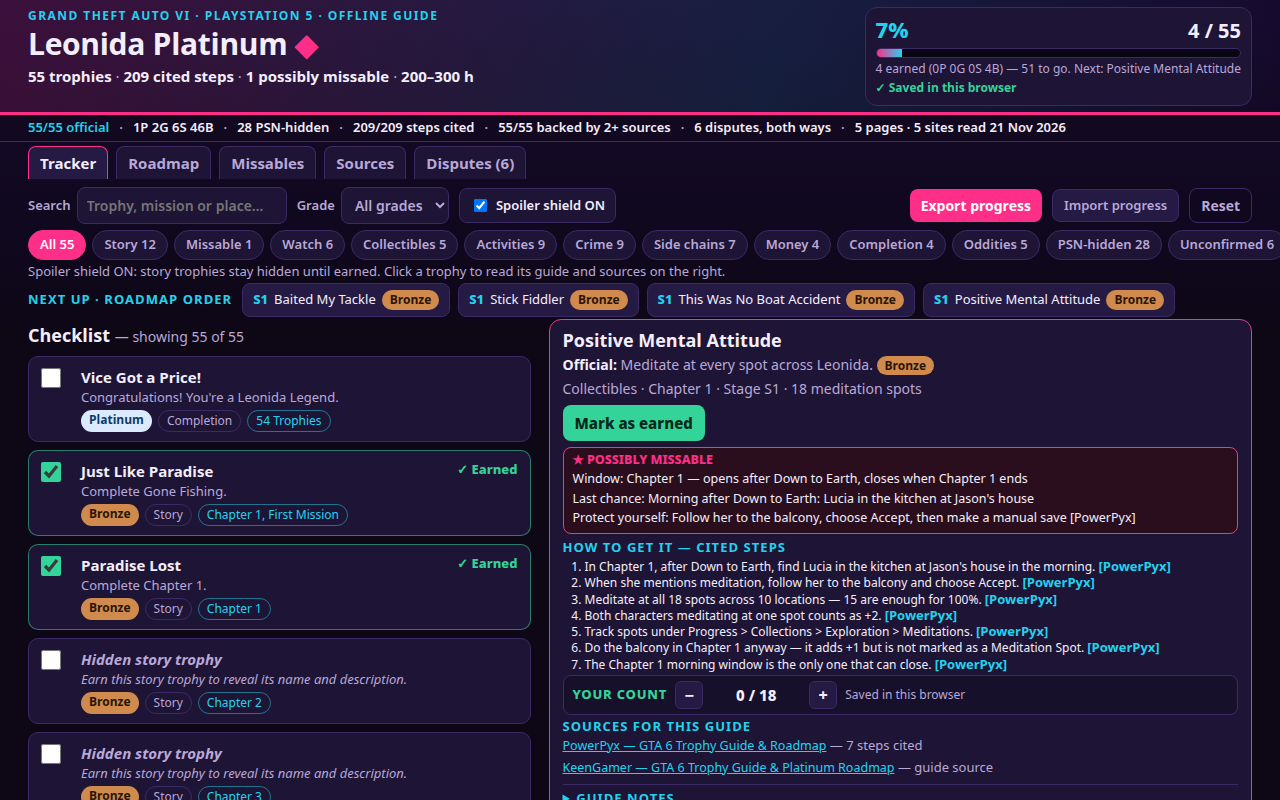
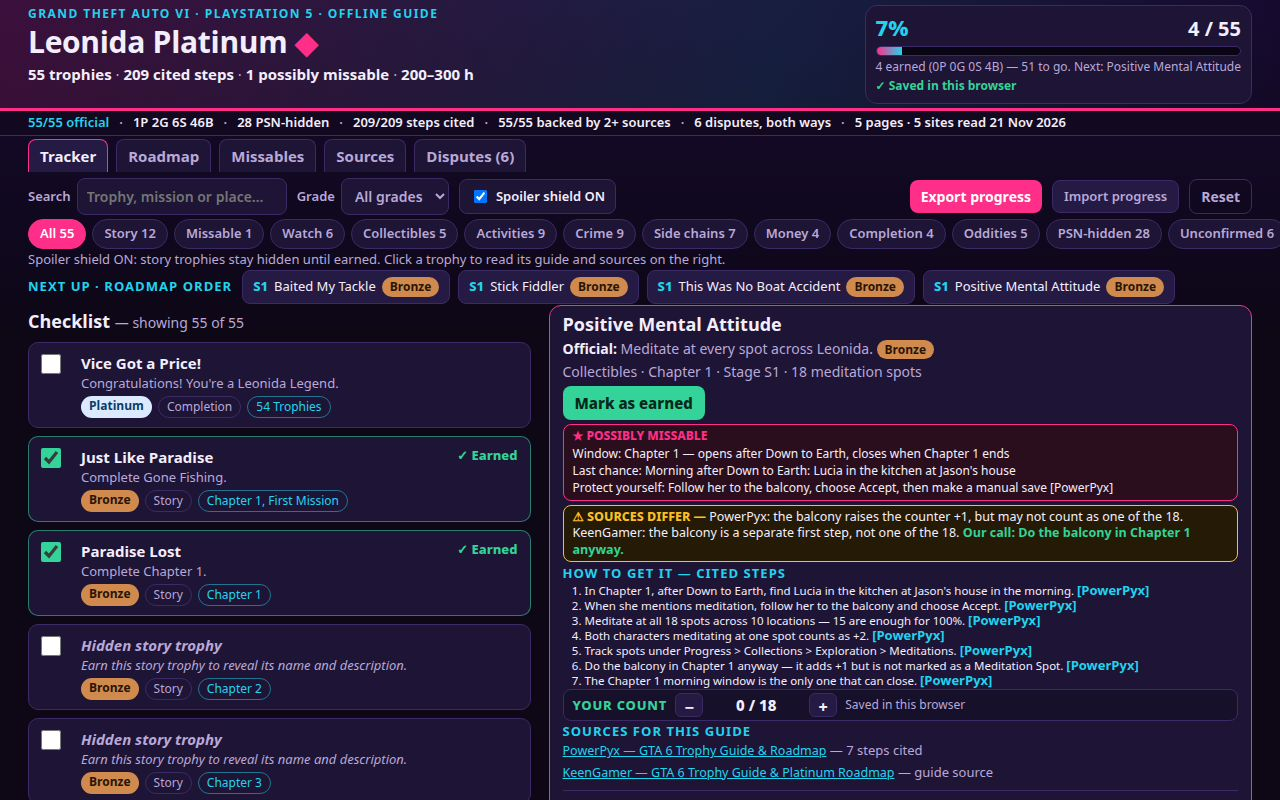
Leonida Platinum v5: in-panel missable-dispute note on Positive Mental Attitude (juri lokal: satu-satunya celah rank 10)

diff --git a/app/style.css b/app/style.css
@@ -37,7 +37,7 @@ button, select, input { font: inherit; color: inherit; }
   gap: 28px;
   justify-content: space-between;
   align-items: stretch;
-  padding: 7px 28px 6px;
+  padding: 5px 28px 4px;
   border-bottom: 3px solid var(--pink);
   background: linear-gradient(100deg, rgba(255,46,136,.16), rgba(34,211,238,.10) 60%, transparent);
 }
@@ -67,7 +67,7 @@ button, select, input { font: inherit; color: inherit; }
   flex-wrap: wrap;
   gap: 6px 10px;
   align-items: center;
-  padding: 3px 28px;
+  padding: 2px 28px;
   background: #12081f;
   border-bottom: 1px solid var(--line);
   font-size: 13px;
@@ -78,7 +78,7 @@ button, select, input { font: inherit; color: inherit; }
 .audit-sep { color: var(--muted); }
 
 /* Tabs */
-.tabs { display: flex; gap: 8px; padding: 4px 28px 0; flex-wrap: wrap; }
+.tabs { display: flex; gap: 8px; padding: 3px 28px 0; flex-wrap: wrap; }
 .tab {
   background: var(--card);
   border: 1px solid var(--line);
@@ -97,7 +97,7 @@ button, select, input { font: inherit; color: inherit; }
   flex-wrap: wrap;
   gap: 10px;
   align-items: center;
-  padding: 8px 28px 4px;
+  padding: 6px 28px 3px;
 }
 .controls label { font-size: 13px; color: var(--muted); font-weight: 600; display: flex; gap: 6px; align-items: center; }
 .controls select, .controls input[type="search"] {
@@ -123,7 +123,7 @@ button, select, input { font: inherit; color: inherit; }
 .import-btn { background: var(--card2); border: 1px solid var(--line); color: var(--text); }
 .import-btn input { display: none; }
 .spoiler-toggle { background: var(--card); border: 1px solid var(--line); border-radius: 8px; padding: 7px 10px; color: var(--text) !important; }
-.chips { display: flex; flex-wrap: nowrap; gap: 6px; padding: 2px 28px 0; overflow-x: auto; scrollbar-width: none; }
+.chips { display: flex; flex-wrap: nowrap; gap: 6px; padding: 1px 28px 0; overflow-x: auto; scrollbar-width: none; }
 .chips::-webkit-scrollbar { display: none; }
 .chip {
   background: var(--card);
@@ -138,10 +138,10 @@ button, select, input { font: inherit; color: inherit; }
   flex-shrink: 0;
 }
 .chip.active { background: var(--pink); border-color: var(--pink); color: #fff; }
-.filter-note { padding: 0 28px; margin: 2px 0 0; color: var(--muted); font-size: 13px; min-height: 15px; }
+.filter-note { padding: 0 28px; margin: 1px 0 0; color: var(--muted); font-size: 13px; min-height: 15px; }
 
 /* Next up */
-.next-up { padding: 2px 28px 0; display: flex; gap: 10px; align-items: center; }
+.next-up { padding: 1px 28px 0; display: flex; gap: 10px; align-items: center; }
 .next-label { font-size: 13px; text-transform: uppercase; letter-spacing: .08em; color: var(--cyan); font-weight: 700; white-space: nowrap; }
 .next-list { list-style: none; display: flex; gap: 8px; flex-wrap: nowrap; overflow-x: auto; scrollbar-width: none; margin: 0; padding: 0; }
 .next-list::-webkit-scrollbar { display: none; }
@@ -159,7 +159,7 @@ button, select, input { font: inherit; color: inherit; }
 .next-stage { color: var(--cyan); font-weight: 800; }
 
 /* Two-column layout: checklist + guide detail */
-.layout { display: grid; grid-template-columns: minmax(0, 5fr) minmax(0, 7fr); gap: 18px; padding: 2px 28px 16px; align-items: start; }
+.layout { display: grid; grid-template-columns: minmax(0, 5fr) minmax(0, 7fr); gap: 18px; padding: 1px 28px 16px; align-items: start; }
 .list-col h2, .detail-col h2 { font-size: 18px; margin: 6px 0 10px; }
 .list-col h2 span { color: var(--muted); font-size: 14px; font-weight: 400; }
 .trophy-list { list-style: none; margin: 0; padding: 0; display: flex; flex-direction: column; gap: 8px; }
@@ -197,31 +197,38 @@ button, select, input { font: inherit; color: inherit; }
 
 /* Detail panel */
 .detail-col { position: sticky; top: 12px; }
-.detail { background: var(--card); border: 1px solid var(--pink); border-radius: 12px; padding: 9px 13px; }
+.detail { background: var(--card); border: 1px solid var(--pink); border-radius: 12px; padding: 7px 13px; }
 .detail-empty { color: var(--muted); }
 .detail h2 { font-size: 18px; margin: 1px 0 3px; }
-.detail .official { color: var(--muted); font-size: 14px; margin: 0 0 3px; }
+.detail .official { color: var(--muted); font-size: 14px; margin: 0 0 2px; }
 .detail .official strong { color: var(--text); }
-.detail h3 { font-size: 13px; text-transform: uppercase; letter-spacing: .08em; color: var(--cyan); margin: 4px 0 1px; }
+.detail h3 { font-size: 13px; text-transform: uppercase; letter-spacing: .08em; color: var(--cyan); margin: 3px 0 1px; }
 .detail p { margin: 3px 0; }
 .detail .guide-text { font-size: 15px; }
 .detail .sources { list-style: none; margin: 0; padding: 0; display: flex; flex-wrap: wrap; gap: 0 14px; }
 .detail .sources li { margin: 1px 0; font-size: 12.5px; }
 .detail .sources a { overflow-wrap: anywhere; }
 .claim-count { color: var(--muted); font-size: 13px; }
-.detail .risk-box { border-radius: 8px; padding: 4px 9px; font-size: 12.5px; line-height: 1.3; margin: 6px 0; }
+.detail .risk-box { border-radius: 8px; padding: 3px 9px; font-size: 12px; line-height: 1.25; margin: 4px 0; }
 .detail .risk-box.missable { background: #2a0e1e; border: 1px solid var(--pink); }
 .detail .risk-box.watch { background: #241a05; border: 1px solid var(--amber); }
+.detail .risk-box p { margin: 2px 0; }
+/* In-panel dispute note: where the sources disagree about this trophy, both
+   versions are shown here in the detail panel, not only on the Disputes tab. */
+.detail .dispute-note { background: #241a05; border: 1px solid var(--amber); border-radius: 8px; padding: 3px 9px; font-size: 12.5px; line-height: 1.3; margin: 4px 0; }
+.detail .dispute-note p { margin: 0; }
+.detail .dispute-note-lead { font-weight: 800; color: var(--amber); }
+.detail .dispute-note-body strong { color: var(--green); }
 .detail .risk-title { font-weight: 800; margin: 0 0 3px !important; }
 .detail .risk-box.missable .risk-title { color: var(--pink); }
 .detail .risk-box.watch .risk-title { color: var(--amber); }
 .detail .risk-src { color: var(--muted); font-size: 13px; }
 .detail .unconfirmed { background: #241a05; border: 1px solid var(--amber); border-radius: 8px; padding: 6px 9px; font-size: 14px; margin: 6px 0; }
-.detail .tick-row { margin-top: 6px; }
-.detail .tick-row button { background: var(--green); color: #06281a; border: 0; border-radius: 8px; padding: 7px 12px; font-weight: 800; cursor: pointer; }
+.detail .tick-row { margin-top: 4px; }
+.detail .tick-row button { background: var(--green); color: #06281a; border: 0; border-radius: 8px; padding: 6px 12px; font-weight: 800; cursor: pointer; }
 .detail .tick-row button.earned { background: transparent; border: 1px solid var(--green); color: var(--green); }
-.steps { margin: 3px 0 2px; padding-left: 22px; }
-.steps li { margin: 0; font-size: 12px; line-height: 1.25; }
+.steps { margin: 2px 0 1px; padding-left: 22px; }
+.steps li { margin: 0; font-size: 11.5px; line-height: 1.15; }
 .steps .ref { color: var(--cyan); font-weight: 700; font-size: 13px; white-space: nowrap; }
 .notes { margin-top: 6px; border-top: 1px solid var(--line); padding-top: 4px; }
 .notes summary { cursor: pointer; color: var(--cyan); font-size: 13px; font-weight: 700; text-transform: uppercase; letter-spacing: .08em; }
@@ -232,8 +239,8 @@ button, select, input { font: inherit; color: inherit; }
   background: var(--bg2);
   border: 1px solid var(--line);
   border-radius: 8px;
-  padding: 5px 9px;
-  margin: 3px 0;
+  padding: 3px 9px;
+  margin: 2px 0;
   flex-wrap: wrap;
 }
 .count-label { font-weight: 800; font-size: 13px; letter-spacing: .06em; color: var(--green); }
@@ -242,7 +249,7 @@ button, select, input { font: inherit; color: inherit; }
   border: 1px solid var(--line);
   border-radius: 6px;
   width: 28px;
-  height: 28px;
+  height: 24px;
   font-size: 16px;
   font-weight: 800;
   cursor: pointer;

diff --git a/app/app.js b/app/app.js
@@ -324,6 +324,33 @@ function renderDetailInto(root) {
     warn.append(el('p', null, 'Protect yourself: ' + t.risk.protect + ' [' + t.risk.src + ']'));
     box.append(warn);
   }
+  // In-panel dispute notes: where the sources disagree about this trophy,
+  // show both versions here (not only on the Disputes tab). d-balcony gets a
+  // one-line summary of the same dispute (same facts, fewer words); other
+  // disputes render in full.
+  const DISPUTE_SHORT = {
+    'd-balcony': {
+      a: 'PowerPyx: the balcony raises the counter +1, but may not count as one of the 18.',
+      b: 'KeenGamer: the balcony is a separate first step, not one of the 18.',
+      call: 'Do the balcony in Chapter 1 anyway.',
+    },
+  };
+  for (const d of doc.disputes.filter((x) => x.trophies.includes(t.id))) {
+    const s = DISPUTE_SHORT[d.id];
+    const note = el('div', 'dispute-note');
+    const body = el('p', 'dispute-note-body');
+    body.append(el('span', 'dispute-note-lead', '⚠ SOURCES DIFFER — ' + (s ? '' : d.topic + ': ')));
+    if (s) {
+      body.append(document.createTextNode(s.a + ' ' + s.b + ' '));
+      body.append(el('strong', null, 'Our call: ' + s.call));
+    } else {
+      body.append(document.createTextNode('A — ' + d.a.src + ': ' + d.a.claim + ' '));
+      body.append(document.createTextNode('B — ' + d.b.src + ': ' + d.b.claim + ' '));
+      body.append(el('strong', null, 'Our call: ' + d.call));
+    }
+    note.append(body);
+    box.append(note);
+  }
   if (t.steps && t.steps.length) {
     box.append(el('h3', null, 'How to get it — cited steps'));
     const ol = el('ol', 'steps');
